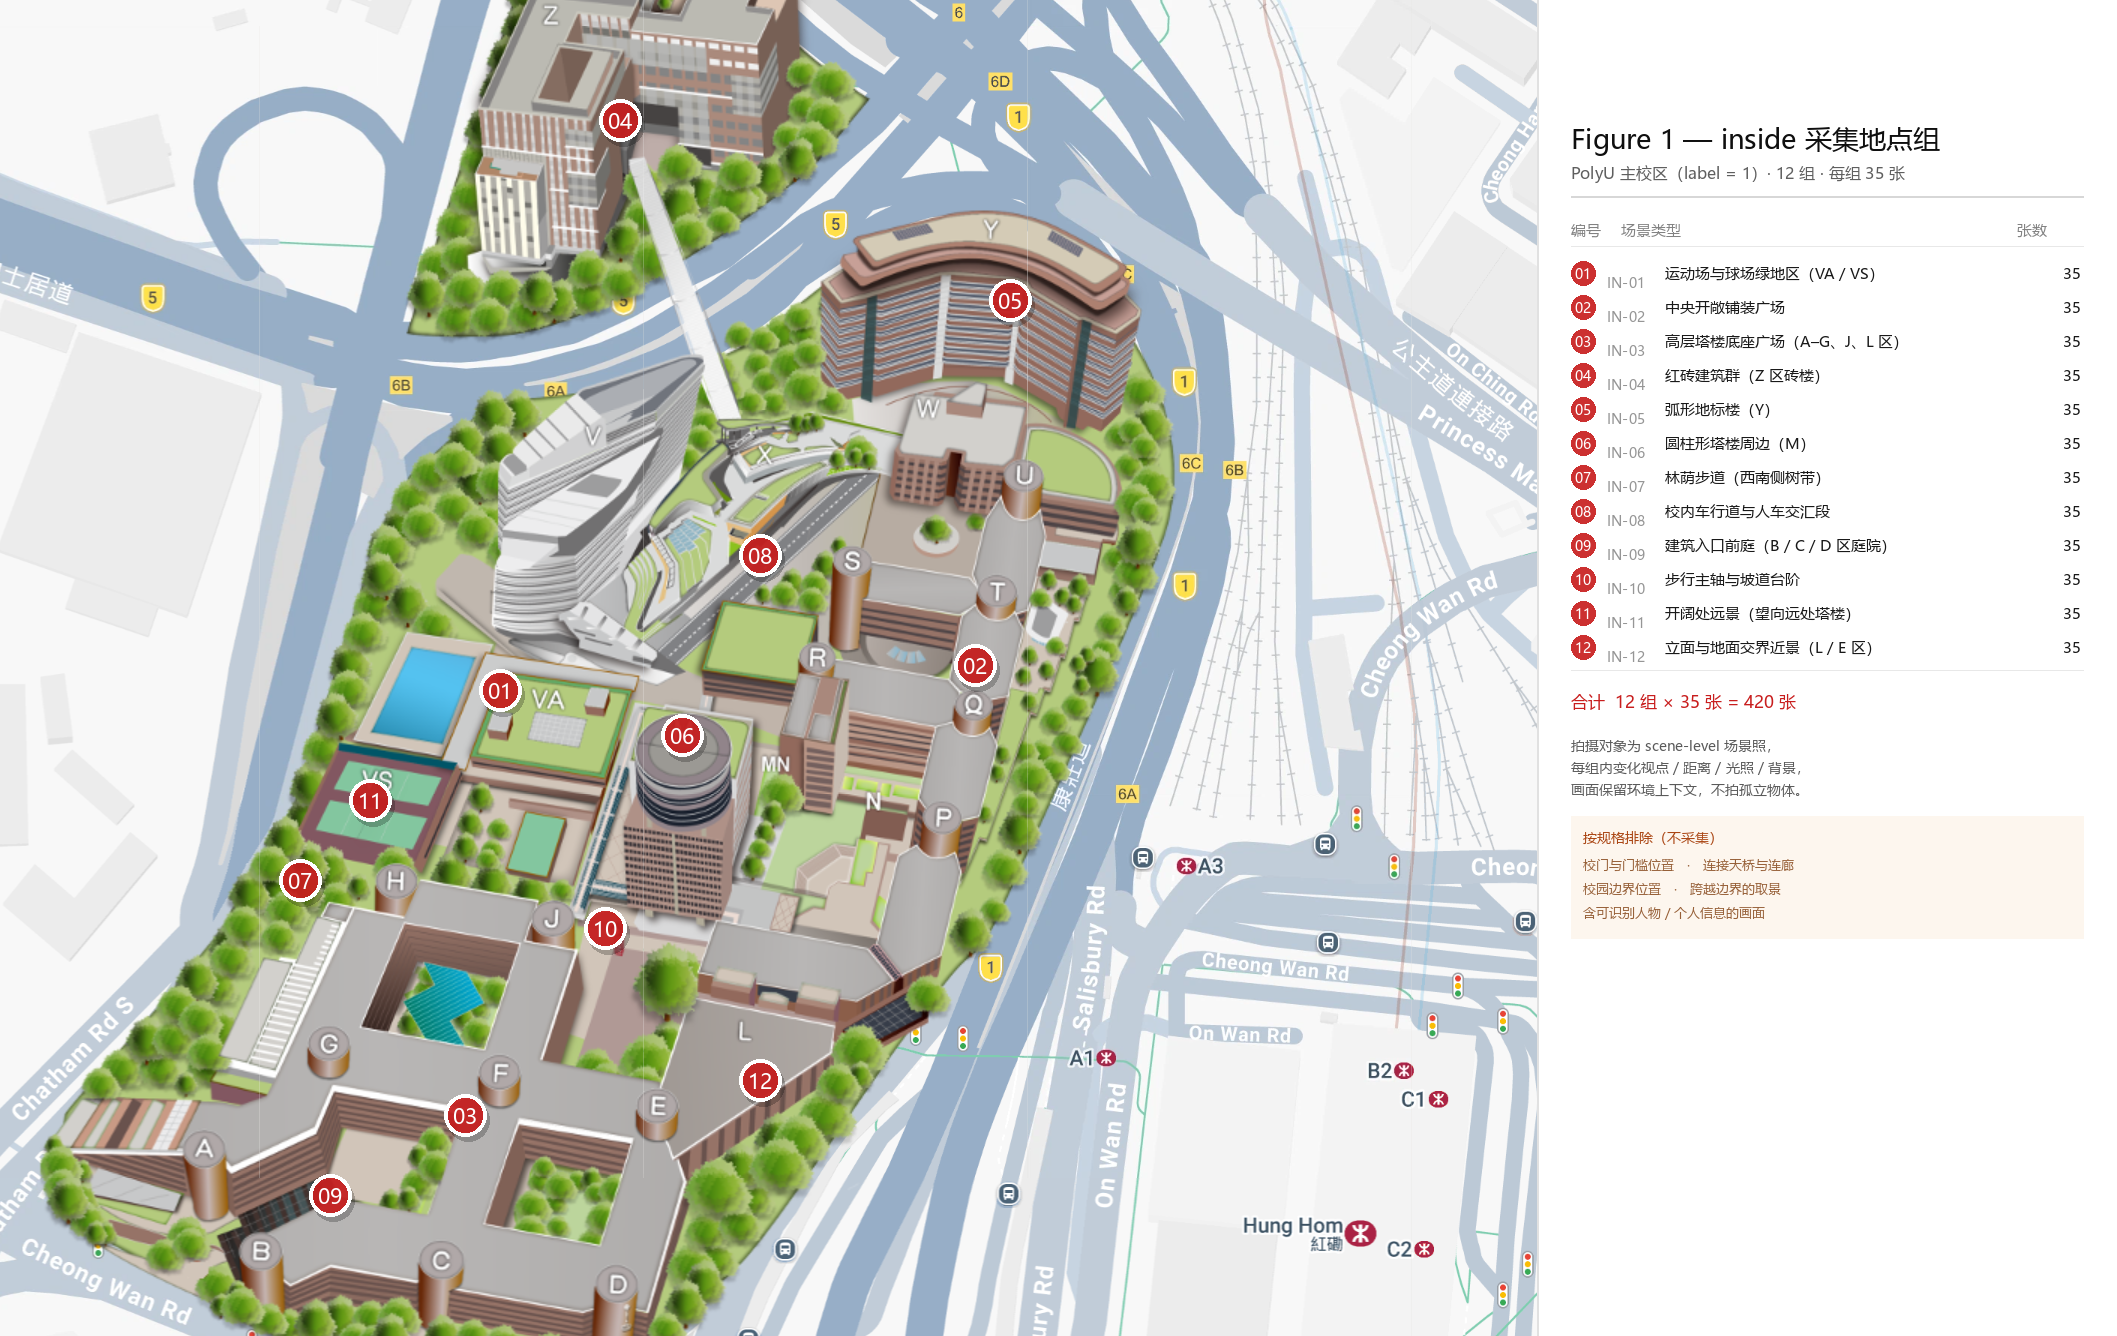
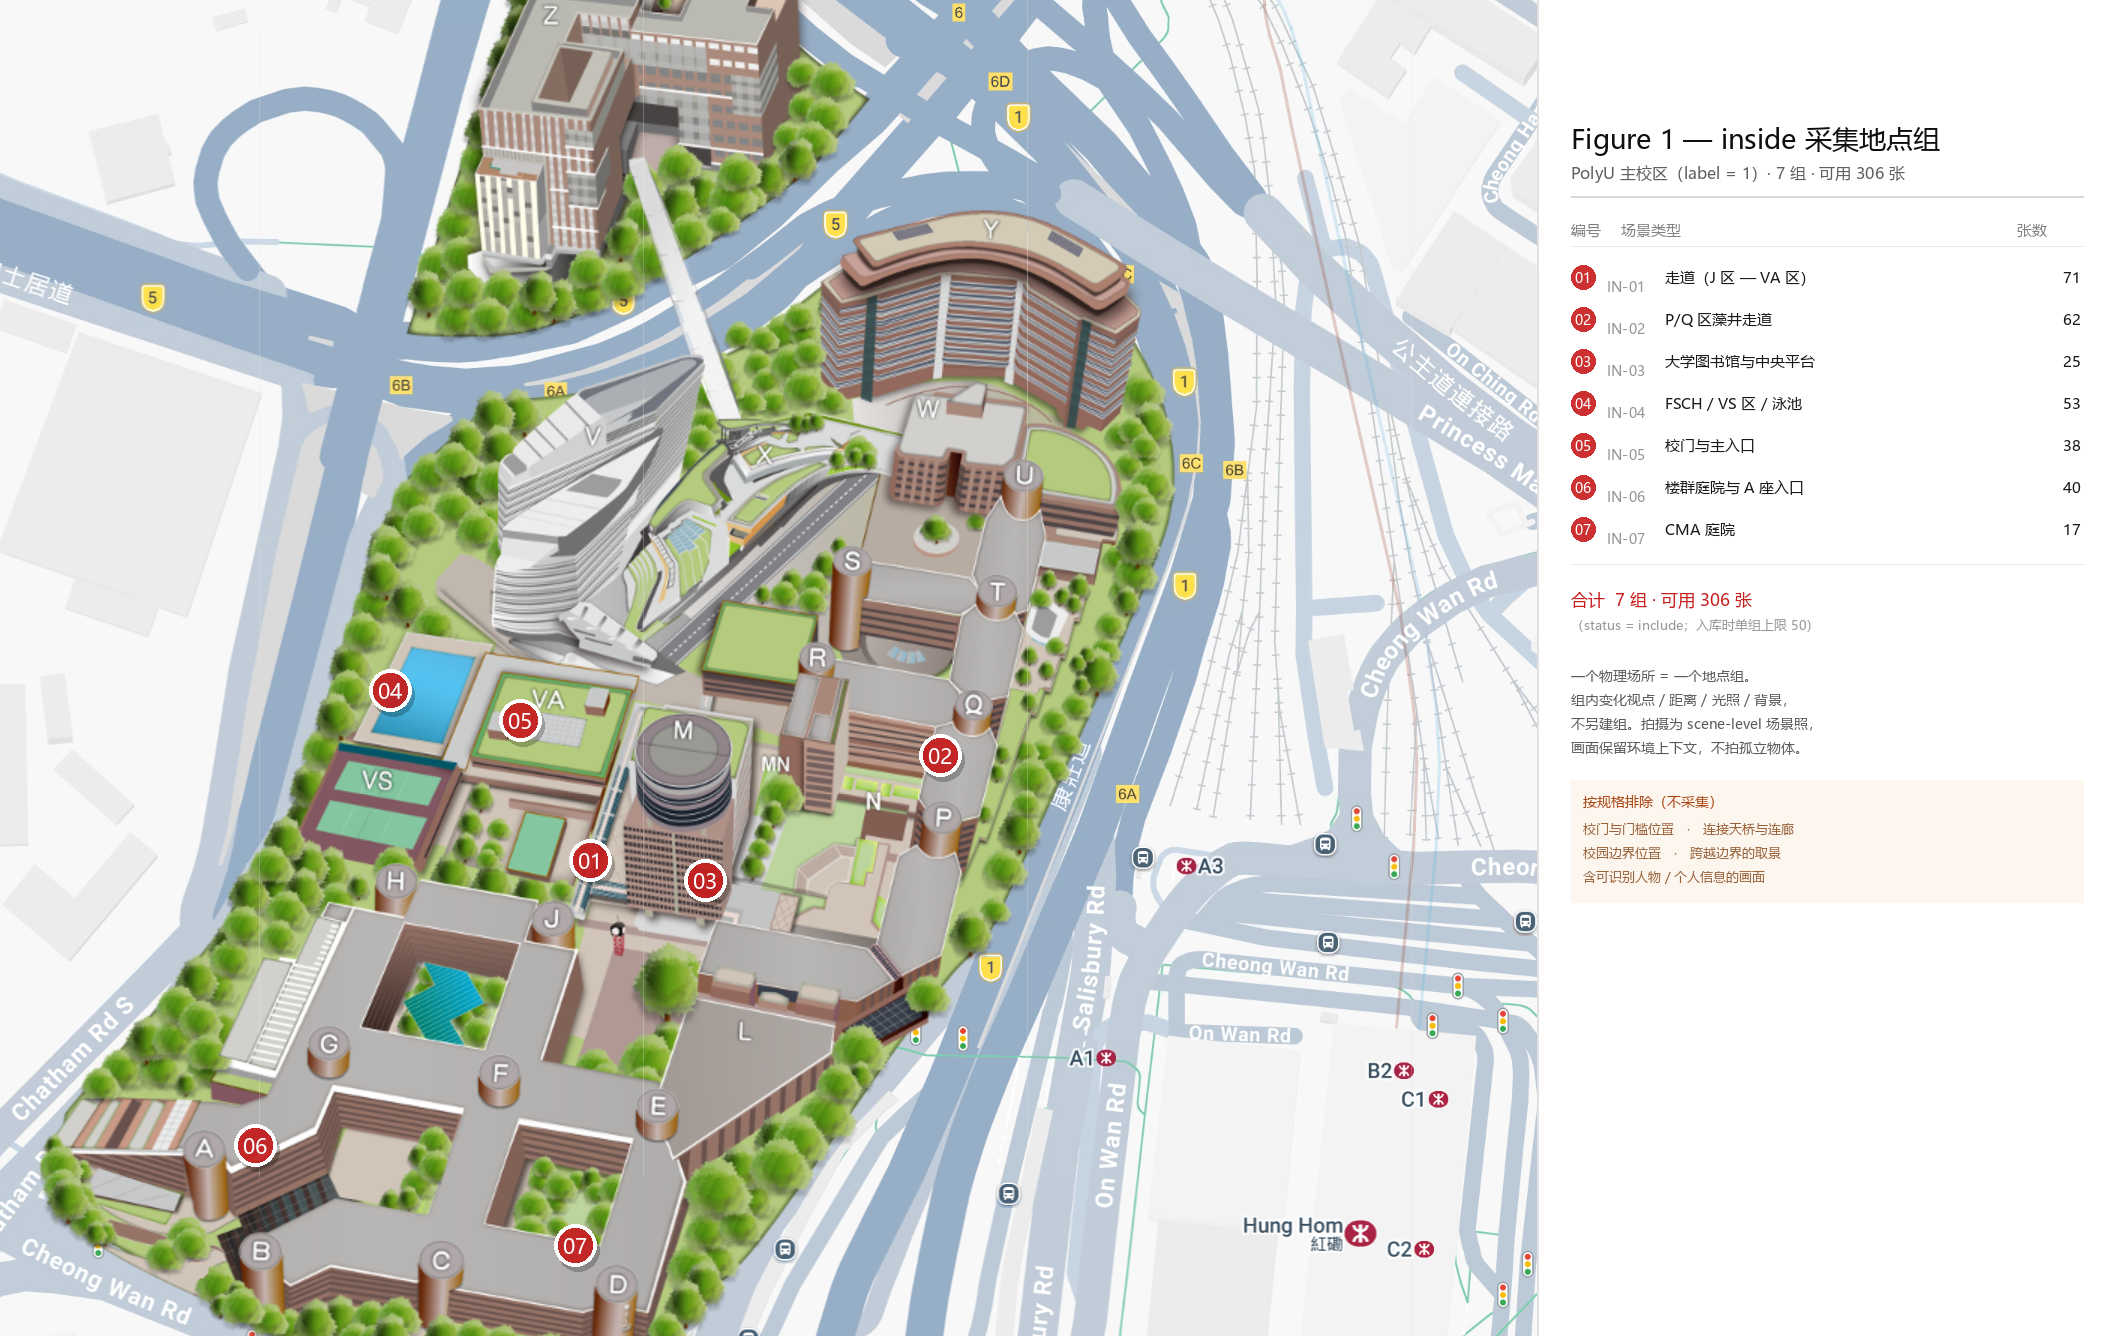
Figure 1 改为实际的 7 个 inside 地点组
底图入库，图钉按楼宇字母重标，张数为可用 306 张，不再沿用 12 组采集草案。

diff --git a/src/_gen_annotated_map.py b/src/_gen_annotated_map.py
@@ -1,29 +1,36 @@
 # -*- coding: utf-8 -*-
-"""Task 1 交付物 Figure 1: 在官方 Campus Map 鸟瞰图上标注 12 个 inside 采集地点组。"""
+"""Task 1 交付物 Figure 1：在官方 Campus Map 鸟瞰图上标注 7 个 inside 地点组。
+
+底图：docs/figures/campus_map_base.png
+（由官方 3D Campus Map 截图裁出，1537×1336，不含图钉。）
+图钉坐标按图上的楼宇字母（A–Z、VA、VS、M、P、Q）逐区核对。
+张数为 status = include 的可用张数，不是入库封顶后的训练张数。
+"""
+import os
+
 from PIL import Image, ImageDraw, ImageFont
 
-SRC = '/mnt/c/Users/Lenovo/Pictures/Screenshots/屏幕截图 2026-10-08 103421.png'
-OUT = 'figure1_inside_locations_annotated.png'
-
+ROOT = os.path.dirname(os.path.dirname(os.path.abspath(__file__)))
+SRC = os.path.join(ROOT, 'docs', 'figures', 'campus_map_base.png')
+OUT = os.path.join(ROOT, 'docs', 'figures', 'figure1_inside_locations_annotated.png')
 FONT = '/home/peleclic/.local/share/fonts/msyh.ttc'
-def f(sz): return ImageFont.truetype(FONT, sz)
 
-# (编号, 场景类型, x, y)  —— 坐标由 100px 网格逐区核对得出
+
+def f(sz):
+    return ImageFont.truetype(FONT, sz)
+
+
+# (编号, 场景, x, y, 可用张数) —— 坐标在 1537×1336 底图上
 PINS = [
-    ('01', '运动场与球场绿地区（VA / VS）',              500,  690),
-    ('02', '中央开敞铺装广场',                            975,  665),
-    ('03', '高层塔楼底座广场（A–G、J、L 区）',            465, 1115),
-    ('04', '红砖建筑群（Z 区砖楼）',                      620,  120),
-    ('05', '弧形地标楼（Y）',                            1010,  300),
-    ('06', '圆柱形塔楼周边（M）',                          682,  735),
-    ('07', '林荫步道（西南侧树带）',                       300,  880),
-    ('08', '校内车行道与人车交汇段',                       760,  555),
-    ('09', '建筑入口前庭（B / C / D 区庭院）',             330, 1195),
-    ('10', '步行主轴与坡道台阶',                          605,  928),
-    ('11', '开阔处远景（望向远处塔楼）',                    370,  800),
-    ('12', '立面与地面交界近景（L / E 区）',               760, 1080),
+    ('01', '走道（J 区 — VA 区）',     590,  860, 71),
+    ('02', 'P/Q 区藻井走道',           940,  755, 62),
+    ('03', '大学图书馆与中央平台',     705,  880, 25),
+    ('04', 'FSCH / VS 区 / 泳池',      390,  690, 53),
+    ('05', '校门与主入口',             520,  720, 38),
+    ('06', '楼群庭院与 A 座入口',      255, 1145, 40),
+    ('07', 'CMA 庭院',                 575, 1245, 17),
 ]
-PER_GROUP = 35
+TOTAL = sum(p[4] for p in PINS)
 LEG_W = 580
 
 map_im = Image.open(SRC).convert('RGB')
@@ -32,23 +39,22 @@ canvas = Image.new('RGB', (W + LEG_W, H), '#FFFFFF')
 canvas.paste(map_im, (0, 0))
 d = ImageDraw.Draw(canvas, 'RGBA')
 
-# ---- 图钉 ----
 R = 21
-for num, name, x, y in PINS:
-    d.ellipse([x-R+3, y-R+5, x+R+3, y+R+5], fill=(0, 0, 0, 60))   # 阴影
-    d.ellipse([x-R, y-R, x+R, y+R], fill=(200, 30, 30, 235),
+for num, name, x, y, _ in PINS:
+    d.ellipse([x - R + 3, y - R + 5, x + R + 3, y + R + 5], fill=(0, 0, 0, 60))
+    d.ellipse([x - R, y - R, x + R, y + R], fill=(200, 30, 30, 235),
               outline=(255, 255, 255, 255), width=4)
     d.text((x, y), num, font=f(21), fill=(255, 255, 255, 255), anchor='mm')
 
-# ---- 图例 ----
 lx = W
 d.rectangle([lx, 0, W + LEG_W, H], fill=(255, 255, 255))
 d.line([(lx, 0), (lx, H)], fill=(225, 225, 225), width=2)
 
 y0 = 120
 d.text((lx + 34, y0), 'Figure 1 — inside 采集地点组', font=f(27), fill=(15, 15, 15))
-d.text((lx + 34, y0 + 42), 'PolyU 主校区（label = 1）· 12 组 · 每组 35 张', font=f(16),
-       fill=(95, 95, 95))
+d.text((lx + 34, y0 + 42),
+       f'PolyU 主校区（label = 1）· {len(PINS)} 组 · 可用 {TOTAL} 张',
+       font=f(16), fill=(95, 95, 95))
 d.line([(lx + 34, y0 + 76), (W + LEG_W - 34, y0 + 76)], fill=(215, 215, 215), width=2)
 
 ry = y0 + 100
@@ -56,34 +62,40 @@ for head, xoff in (('编号', 34), ('场景类型', 84), ('张数', 480)):
     d.text((lx + xoff, ry), head, font=f(15), fill=(130, 130, 130))
 ry += 26
 d.line([(lx + 34, ry), (W + LEG_W - 34, ry)], fill=(232, 232, 232), width=1)
-ry += 12
+ry += 16
 
-for num, name, _, _ in PINS:
+for num, name, _, _, n in PINS:
     d.ellipse([lx + 34, ry + 3, lx + 34 + 24, ry + 27], fill=(200, 30, 30, 235))
     d.text((lx + 46, ry + 15), num, font=f(14), fill=(255, 255, 255), anchor='mm')
     d.text((lx + 70, ry + 15), f'IN-{num}', font=f(14), fill=(150, 150, 150))
     d.text((lx + 128, ry + 15), name, font=f(15), fill=(25, 25, 25), anchor='lm')
-    d.text((lx + LEG_W - 36, ry + 15), str(PER_GROUP), font=f(15),
+    d.text((lx + LEG_W - 36, ry + 15), str(n), font=f(15),
            fill=(25, 25, 25), anchor='rm')
-    ry += 34
+    ry += 42
 
-ry += 4
+ry += 8
 d.line([(lx + 34, ry), (W + LEG_W - 34, ry)], fill=(232, 232, 232), width=1)
-ry += 20
-d.text((lx + 34, ry), f'合计  {len(PINS)} 组 × {PER_GROUP} 张 = {len(PINS)*PER_GROUP} 张',
+ry += 24
+d.text((lx + 34, ry),
+       f'合计  {len(PINS)} 组 · 可用 {TOTAL} 张',
        font=f(17), fill=(200, 30, 30))
-ry += 46
+ry += 28
+d.text((lx + 34, ry), '（status = include；入库时单组上限 50）',
+       font=f(13), fill=(150, 150, 150))
+ry += 50
 
 for line in [
-    '拍摄对象为 scene-level 场景照，',
-    '每组内变化视点 / 距离 / 光照 / 背景，',
+    '一个物理场所 = 一个地点组。',
+    '组内变化视点 / 距离 / 光照 / 背景，',
+    '不另建组。拍摄为 scene-level 场景照，',
     '画面保留环境上下文，不拍孤立物体。',
 ]:
     d.text((lx + 34, ry), line, font=f(14), fill=(90, 90, 90))
-    ry += 22
+    ry += 24
 
-ry += 14
-d.rectangle([lx + 34, ry, W + LEG_W - 34, ry + 122], fill=(253, 246, 238))
+ry += 18
+box_h = 122
+d.rectangle([lx + 34, ry, W + LEG_W - 34, ry + box_h], fill=(253, 246, 238))
 d.text((lx + 46, ry + 12), '按规格排除（不采集）', font=f(14), fill=(170, 70, 20))
 excluded = ['校门与门槛位置　·　连接天桥与连廊',
             '校园边界位置　·　跨越边界的取景',
